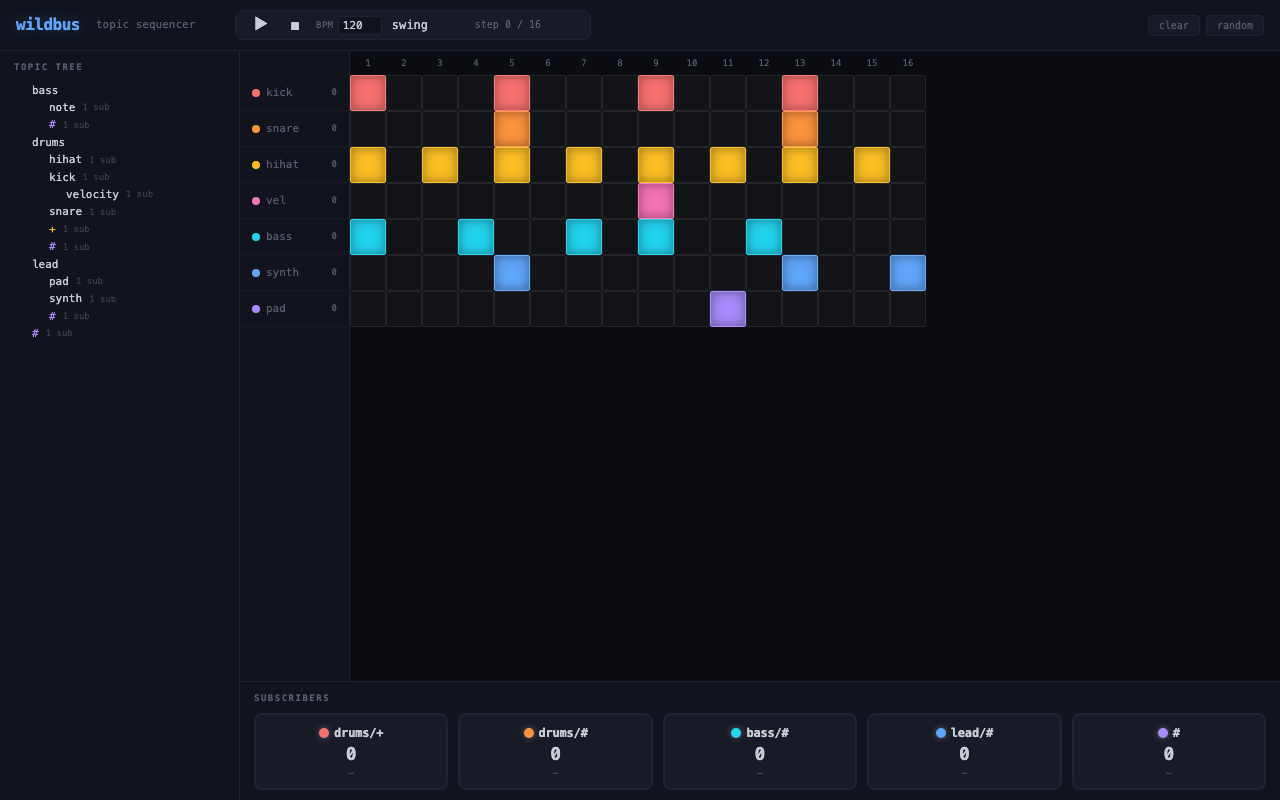
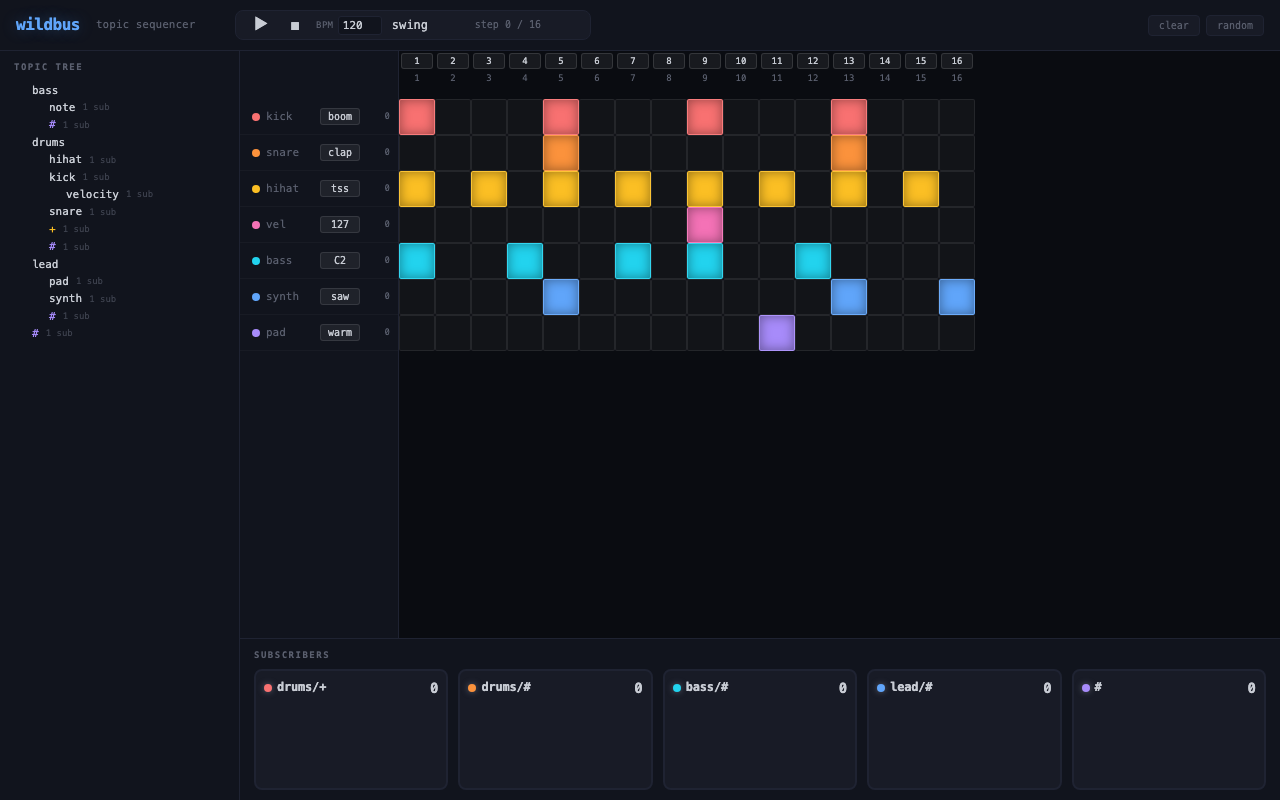
Rebuild GitHub Pages demo and update screenshot

diff --git a/docs/assets/index-DFrfRsHN.js b/docs/assets/index-DFrfRsHN.js
@@ -1,0 +1,21 @@
+var V=Object.defineProperty;var Z=(t,e,l)=>e in t?V(t,e,{enumerable:!0,configurable:!0,writable:!0,value:l}):t[e]=l;var b=(t,e,l)=>Z(t,typeof e!="symbol"?e+"":e,l);(function(){const e=document.createElement("link").relList;if(e&&e.supports&&e.supports("modulepreload"))return;for(const a of document.querySelectorAll('link[rel="modulepreload"]'))s(a);new MutationObserver(a=>{for(const r of a)if(r.type==="childList")for(const o of r.addedNodes)o.tagName==="LINK"&&o.rel==="modulepreload"&&s(o)}).observe(document,{childList:!0,subtree:!0});function l(a){const r={};return a.integrity&&(r.integrity=a.integrity),a.referrerPolicy&&(r.referrerPolicy=a.referrerPolicy),a.crossOrigin==="use-credentials"?r.credentials="include":a.crossOrigin==="anonymous"?r.credentials="omit":r.credentials="same-origin",r}function s(a){if(a.ep)return;a.ep=!0;const r=l(a);fetch(a.href,r)}})();function m(){return{children:new Map,plus:null,hash:null,listeners:new Set}}const S=/\//;class J{constructor(){b(this,"root",m())}add(e,l){this.ensure(e).listeners.add(l)}remove(e,l){const s=this.find(e);return s?s.listeners.delete(l):!1}removeListener(e){const l=[this.root];for(;l.length;){const s=l.pop();s.listeners.delete(e),l.push(...s.children.values()),s.plus&&l.push(s.plus),s.hash&&l.push(s.hash)}}collect(e){const l=e.split(S),s=new Set;return this.collectRecursive(this.root,l,0,s),s}get size(){let e=0;const l=[this.root];for(;l.length;){const s=l.pop();e+=s.listeners.size,l.push(...s.children.values()),s.plus&&l.push(s.plus),s.hash&&l.push(s.hash)}return e}clear(){this.root=m()}ensure(e){const l=e.split(S);let s=this.root;for(const a of l)s=this.ensureChild(s,a);return s}ensureChild(e,l){if(l==="+")return e.plus||(e.plus=m()),e.plus;if(l==="#")return e.hash||(e.hash=m()),e.hash;let s=e.children.get(l);return s||(s=m(),e.children.set(l,s)),s}find(e){const l=e.split(S);let s=this.root;for(const a of l)if(s=this.findChild(s,a),!s)return null;return s}findChild(e,l){return l==="+"?e.plus??void 0:l==="#"?e.hash??void 0:e.children.get(l)}collectRecursive(e,l,s,a){if(s>=l.length){for(const n of e.listeners)a.add(n);if(e.hash)for(const n of e.hash.listeners)a.add(n);return}const r=l[s],o=e.children.get(r);if(o&&this.collectRecursive(o,l,s+1,a),e.plus&&this.collectRecursive(e.plus,l,s+1,a),e.hash){for(const n of e.hash.listeners)a.add(n);this.collectRecursive(e.hash,l,s+1,a)}}}class Q{constructor(){b(this,"trie",new J);b(this,"_onError",null)}subscribe(e,l){const s=l;this.trie.add(e,s);let a=!1;return()=>{a||(a=!0,this.trie.remove(e,s))}}publish(e,l){const s=this.trie.collect(e);for(const a of s)try{a(l,e)}catch(r){this._onError?this._onError(r,e,a):console.error(`[wildbus] unhandled error in listener for "${e}":`,r)}}onError(e){this._onError=e}unsubscribe(e,l){return this.trie.remove(e,l)}removeListener(e){this.trie.removeListener(e)}get listenerCount(){return this.trie.size}clear(){this.trie.clear()}}function X(t){const e={segment:"root",wildcard:null,subscriberCount:0,children:new Map};for(const l of t){const s=l.split("/");let a=e;for(const r of s){let o=a.children.get(r);o||(o={segment:r,wildcard:r==="+"?"+":r==="#"?"#":null,subscriberCount:0,children:new Map},a.children.set(r,o)),a=o}a.subscriberCount++}return e}function Y(t,e,l){t.innerHTML="",O(t,e,0,"root",l)}function O(t,e,l,s,a){const r=(a==null?void 0:a.get(s))??0;if(l>0){const n=document.createElement("div");n.className="tree-node",n.dataset.path=s;const i=document.createElement("div");i.className="tree-label";const K="  ".repeat(l-1);let $="segment",U=e.segment;if(e.wildcard==="+"?$="segment wildcard-plus":e.wildcard==="#"&&($="segment wildcard-hash"),i.innerHTML=`<span style="color:var(--text-dim)">${K}</span><span class="${$}">${U}</span>`,e.subscriberCount>0){const u=document.createElement("span");u.className="sub-count",u.textContent=`${e.subscriberCount} sub`,i.appendChild(u)}if(r>0){const u=document.createElement("span");u.className="hit-count",u.textContent=String(r),i.appendChild(u)}n.appendChild(i),t.appendChild(n),t=n}const o=[...e.children.values()].sort((n,i)=>n.wildcard==="#"?1:i.wildcard==="#"?-1:n.wildcard==="+"?1:i.wildcard==="+"?-1:n.segment.localeCompare(i.segment));for(const n of o)O(t,n,l+1,s?`${s}/${n.segment}`:n.segment,a)}const h=16,T=8,c=[{topic:"drums/kick",label:"kick",color:"var(--red)",steps:[],payload:"boom"},{topic:"drums/snare",label:"snare",color:"var(--orange)",steps:[],payload:"clap"},{topic:"drums/hihat",label:"hihat",color:"var(--yellow)",steps:[],payload:"tss"},{topic:"drums/kick/velocity",label:"vel",color:"var(--pink)",steps:[],payload:"127"},{topic:"bass/note",label:"bass",color:"var(--cyan)",steps:[],payload:"C2"},{topic:"lead/synth",label:"synth",color:"var(--accent)",steps:[],payload:"saw"},{topic:"lead/pad",label:"pad",color:"var(--purple)",steps:[],payload:"warm"}];for(const t of c)t.steps=new Array(h).fill(!1);const y=[{topic:"drums/+",color:"var(--red)"},{topic:"drums/#",color:"var(--orange)"},{topic:"bass/#",color:"var(--cyan)"},{topic:"lead/#",color:"var(--accent)"},{topic:"#",color:"var(--purple)"}],_=new Q,w=new Set;let p=0,d=!1,f=null,k=120,B=0;const j=new Array(c.length).fill(0),q=new Array(y.length).fill(0),N=new Map,x=y.map(()=>[]),I=new Array(h).fill("").map((t,e)=>String(e+1)),ee=document.getElementById("tree-container"),P=document.getElementById("row-labels"),R=document.getElementById("step-numbers"),L=document.getElementById("grid"),te=document.getElementById("subscriber-list"),v=document.getElementById("btn-play"),se=document.getElementById("btn-stop"),le=document.getElementById("btn-clear"),ae=document.getElementById("btn-random"),C=document.getElementById("bpm-input"),G=document.getElementById("step-indicator");function re(){P.innerHTML=c.map((t,e)=>`<div class="row-label row-${e}" data-row="${e}">
+      <span class="dot" style="background:${t.color}"></span>
+      <span class="row-label-text">${t.label}</span>
+      <input class="row-payload" id="row-payload-${e}" value="${t.payload.replace(/"/g,"&quot;")}" title="payload" spellcheck="false" />
+      <span class="row-count" id="row-count-${e}">0</span>
+    </div>`).join(""),P.querySelectorAll(".row-payload").forEach(t=>{t.addEventListener("input",()=>{const e=Number(t.dataset.row);c[e].payload=t.value}),t.addEventListener("click",e=>e.stopPropagation())})}function ne(){R.innerHTML=new Array(h).fill(0).map((t,e)=>`<div class="step-col" data-step="${e}">
+      <input class="col-payload" id="col-payload-${e}" value="${I[e]}" title="column payload" spellcheck="false" />
+      <div class="step-num">${e+1}</div>
+    </div>`).join(""),R.querySelectorAll(".col-payload").forEach(t=>{t.addEventListener("input",()=>{const e=Number(t.dataset.step);I[e]=t.value}),t.addEventListener("click",e=>e.stopPropagation())})}function E(){L.innerHTML=c.map((t,e)=>`<div class="grid-row row-${e}" data-row="${e}">
+      ${t.steps.map((l,s)=>`<div class="grid-cell${l?" on":""}" data-row="${e}" data-step="${s}"></div>`).join("")}
+    </div>`).join("")}function oe(){te.innerHTML=y.map((t,e)=>`<div class="sub-chip sub-${e}" data-topic="${t.topic.replace(/"/g,"&quot;")}">
+      <div class="chip-dot-row">
+        <span class="dot" style="background:${t.color}"></span>
+        <span class="chip-topic">${t.topic}</span>
+        <span class="chip-count" id="sub-count-${e}">0</span>
+      </div>
+      <div class="waterfall" id="waterfall-${e}"></div>
+    </div>`).join("")}function ce(t){const e=document.getElementById(`waterfall-${t}`);if(!e)return;const l=x[t];e.innerHTML=l.slice(0,T).map((s,a)=>`<div class="wf-entry${a===0?" wf-fresh":""}" style="opacity:${1-a*.1}">
+        <span class="wf-src">${s.src}</span>
+        <span class="wf-payload">${s.payload}</span>
+      </div>`).join("")}function ie(){w.clear();for(const t of c)w.add(t.topic);for(const t of y)w.add(t.topic)}function W(){const t=X(w);Y(ee,t,N)}function de(t){const e=t.split("/");for(let l=0;l<=e.length;l++){const s=e.slice(0,l).join("/")||"root";N.set(s,(N.get(s)??0)+1)}W();for(let l=0;l<=e.length;l++){const s=e.slice(0,l).join("/")||"root",a=document.querySelector(`.tree-node[data-path="${CSS.escape(s)}"]`);a&&(a.classList.add("active"),setTimeout(()=>a.classList.remove("active"),600))}}function ue(t,e,l,s){q[s]++;const a=x[s];a.unshift({src:e.split("/").pop()||e,payload:l,time:Date.now()}),a.length>T*2&&(a.length=T*2);const r=document.getElementById(`sub-count-${s}`);r&&(r.textContent=String(q[s])),ce(s);const o=document.querySelector(`.sub-chip[data-topic="${CSS.escape(t)}"]`);o&&(o.classList.add("flash"),setTimeout(()=>o.classList.remove("flash"),250))}function fe(t){const e=document.getElementById(`row-count-${t}`);e&&(e.textContent=String(j[t]))}function pe(){G.textContent=`msgs ${B} · step ${p+1} / ${h}`}function he(t){const e=document.querySelector(`.row-label[data-row="${t}"]`);e&&(e.classList.add("firing"),setTimeout(()=>e.classList.remove("firing"),100))}function z(t,e){L.querySelectorAll(".grid-cell.playhead").forEach(a=>a.classList.remove("playhead")),document.querySelectorAll(".step-num.active").forEach(a=>a.classList.remove("active")),L.querySelectorAll(`.grid-cell[data-step="${t}"]`).forEach(a=>{a.classList.add("playhead"),e&&(a.classList.add("playhead-advance"),setTimeout(()=>a.classList.remove("playhead-advance"),100))});const s=document.querySelector(`.step-num[data-step="${t}"]`);s&&s.classList.add("active")}let A=0;function M(t){const e=performance.now(),l=A>0;A=e,p=t,z(t,l);for(let s=0;s<c.length;s++){const a=c[s];if(a.steps[t]){B++,j[s]++;const r=`${a.payload} ${I[t]}`;_.publish(a.topic,r),de(a.topic),he(s),fe(s)}}pe(),p=(t+1)%h}function D(){return 6e4/k/4}function F(){d||(d=!0,v.classList.add("playing"),v.textContent="❚❚",A=0,M(p),f=setInterval(()=>M(p),D()))}function g(){d&&(d=!1,v.classList.remove("playing"),v.textContent="▶",f&&(clearInterval(f),f=null),z(-1,!1),G.textContent=`msgs ${B} · stopped`,document.querySelectorAll(".grid-cell.playhead").forEach(t=>t.classList.remove("playhead")),document.querySelectorAll(".step-num.active").forEach(t=>t.classList.remove("active")))}function me(){d&&(f&&clearInterval(f),f=setInterval(()=>M(p),D()))}function ve(){for(const t of c)t.steps.fill(!1);E()}function ye(){for(const e of c)for(let l=0;l<h;l++)e.steps[l]=Math.random()<.3;E()}v.addEventListener("click",()=>{d?g():F()});se.addEventListener("click",g);le.addEventListener("click",()=>{d&&g(),ve()});ae.addEventListener("click",()=>{d&&g(),ye()});C.addEventListener("change",()=>{k=Math.max(40,Math.min(300,Number(C.value)||120)),C.value=String(k),me()});document.addEventListener("keydown",t=>{t.code==="Space"&&(t.preventDefault(),d?g():F())});y.forEach((t,e)=>{_.subscribe(t.topic,(l,s)=>{ue(t.topic,s,String(l),e)})});L.addEventListener("click",t=>{const e=t.target.closest(".grid-cell");if(!e)return;const l=Number(e.dataset.row),s=Number(e.dataset.step);isNaN(l)||isNaN(s)||(c[l].steps[s]=!c[l].steps[s],e.classList.toggle("on"))});ie();re();ne();E();oe();W();const H=[[!0,!1,!1,!1,!0,!1,!1,!1,!0,!1,!1,!1,!0,!1,!1,!1],[!1,!1,!1,!1,!0,!1,!1,!1,!1,!1,!1,!1,!0,!1,!1,!1],[!0,!1,!0,!1,!0,!1,!0,!1,!0,!1,!0,!1,!0,!1,!0,!1],[!1,!1,!1,!1,!1,!1,!1,!1,!0,!1,!1,!1,!1,!1,!1,!1],[!0,!1,!1,!0,!1,!1,!0,!1,!0,!1,!1,!0,!1,!1,!1,!1],[!1,!1,!1,!1,!0,!1,!1,!1,!1,!1,!1,!1,!0,!1,!1,!0],[!1,!1,!1,!1,!1,!1,!1,!1,!1,!1,!0,!1,!1,!1,!1,!1]];for(let t=0;t<H.length&&t<c.length;t++)c[t].steps=[...H[t]];E();

diff --git a/docs/index.html b/docs/index.html
@@ -4,8 +4,8 @@
   <meta charset="UTF-8" />
   <meta name="viewport" content="width=device-width, initial-scale=1.0" />
   <title>wildbus — sequencer</title>
-  <script type="module" crossorigin src="/wildbus/assets/index-BS4ziKsq.js"></script>
-  <link rel="stylesheet" crossorigin href="/wildbus/assets/index-VwK0qMA4.css">
+  <script type="module" crossorigin src="/wildbus/assets/index-DFrfRsHN.js"></script>
+  <link rel="stylesheet" crossorigin href="/wildbus/assets/index-xNPtYo_b.css">
 </head>
 <body>
   <div id="app">

diff --git a/docs/assets/index-xNPtYo_b.css b/docs/assets/index-xNPtYo_b.css
@@ -1,0 +1,1 @@
+*,*:before,*:after{box-sizing:border-box;margin:0;padding:0}:root{--bg: #0a0c11;--surface: #11141d;--surface2: #181b26;--border: #1f2332;--text: #c8ccd4;--text-dim: #5a5f6e;--accent: #60a5fa;--accent-glow: rgba(96, 165, 250, .3);--green: #34d399;--yellow: #fbbf24;--red: #f87171;--purple: #a78bfa;--cyan: #22d3ee;--orange: #fb923c;--pink: #f472b6;--pink-glow: rgba(244, 114, 182, .3);--radius: 4px;--font: "SF Mono", "Cascadia Code", "Fira Code", "JetBrains Mono", monospace}body{background:var(--bg);color:var(--text);font-family:var(--font);font-size:12px;line-height:1.4;height:100vh;overflow:hidden;user-select:none;-webkit-user-select:none}#app{display:flex;flex-direction:column;height:100vh}header{display:flex;align-items:center;gap:16px;padding:10px 16px;border-bottom:1px solid var(--border);background:var(--surface)}header h1{font-size:16px;font-weight:700;color:var(--accent);text-shadow:0 0 16px var(--accent-glow);letter-spacing:-.5px}.subtitle{color:var(--text-dim);font-size:11px}.transport{display:flex;align-items:center;gap:10px;margin-left:24px;padding:4px 12px;background:var(--surface2);border-radius:8px;border:1px solid var(--border)}.play-btn,.stop-btn{background:none;border:none;color:var(--text);font-size:16px;cursor:pointer;padding:2px 6px;border-radius:3px;transition:color .15s,background .15s;line-height:1}.play-btn:hover,.stop-btn:hover{background:var(--border)}.play-btn.playing{color:var(--green);text-shadow:0 0 8px rgba(52,211,153,.5)}.bpm-group{display:flex;align-items:center;gap:4px}.bpm-group label{color:var(--text-dim);font-size:9px;text-transform:uppercase;letter-spacing:.5px}.bpm-group input{background:var(--surface);border:1px solid var(--border);border-radius:3px;padding:2px 4px;color:var(--text);font-family:var(--font);font-size:11px;width:44px;text-align:center;outline:none}.bpm-group input:focus{border-color:var(--accent)}.step-indicator{color:var(--text-dim);font-size:10px;min-width:140px;text-align:center;font-variant-numeric:tabular-nums}.header-actions{margin-left:auto;display:flex;gap:6px}.header-actions button{background:var(--surface2);color:var(--text-dim);border:1px solid var(--border);border-radius:var(--radius);padding:4px 10px;font-family:var(--font);font-size:10px;cursor:pointer;transition:color .2s,border-color .2s}.header-actions button:hover{color:var(--text);border-color:var(--accent)}main{display:flex;flex:1;overflow:hidden}#tree-panel{width:240px;min-width:200px;border-right:1px solid var(--border);background:var(--surface);display:flex;flex-direction:column;overflow:hidden}#tree-panel h2{padding:10px 14px 6px;font-size:9px;text-transform:uppercase;letter-spacing:1.5px;color:var(--text-dim)}#tree-container{flex:1;overflow-y:auto;padding:2px 0 8px 6px}.tree-node{padding-left:16px;border-left:1px solid transparent;transition:border-color .15s,background .15s}.tree-node.active{border-left-color:var(--accent);background:linear-gradient(90deg,var(--accent-glow) 0%,transparent 50%)}.tree-label{display:flex;align-items:center;gap:3px;padding:1px 6px;border-radius:2px;font-size:11px}.tree-label .segment{color:var(--text)}.tree-label .wildcard-plus{color:var(--yellow)}.tree-label .wildcard-hash{color:var(--purple)}.tree-label .sub-count{color:var(--text-dim);font-size:9px;margin-left:4px;opacity:.6}.tree-label .hit-count{margin-left:auto;background:var(--accent);color:var(--bg);font-size:9px;font-weight:700;padding:1px 5px;border-radius:8px;min-width:18px;text-align:center;font-variant-numeric:tabular-nums}#seq-panel{flex:1;display:flex;flex-direction:column;overflow:hidden}#sequencer{flex:1;display:flex;overflow:hidden}.row-labels{display:flex;flex-direction:column;padding-top:48px;min-width:110px;border-right:1px solid var(--border);background:var(--surface)}.row-label{display:flex;align-items:center;height:36px;padding:0 8px 0 12px;font-size:11px;color:var(--text-dim);border-bottom:1px solid rgba(255,255,255,.03);gap:6px;transition:color .15s}.row-label .dot{width:8px;height:8px;border-radius:50%;flex-shrink:0}.row-label.firing{color:var(--text)}.row-label-text{flex-shrink:0;display:inline-block;width:48px}.row-payload{width:40px;background:#ffffff0f;border:1px solid rgba(255,255,255,.1);border-radius:3px;padding:2px 4px;color:var(--text);font-family:var(--font);font-size:10px;text-align:center;outline:none;transition:border-color .2s,box-shadow .2s}.row-payload:focus{border-color:var(--accent);box-shadow:0 0 6px var(--accent-glow)}.row-count{margin-left:auto;font-size:9px;color:var(--text-dim);font-variant-numeric:tabular-nums;min-width:24px;text-align:right}.grid-scroll{flex:1;overflow-x:auto;overflow-y:hidden}.step-numbers{display:flex;height:48px}.step-col{width:36px;display:flex;flex-direction:column;align-items:center;flex-shrink:0}.col-payload{width:32px;background:#ffffff0f;border:1px solid rgba(255,255,255,.12);border-radius:3px;padding:2px;color:var(--text);font-family:var(--font);font-size:9px;text-align:center;outline:none;margin-top:2px;transition:border-color .2s,box-shadow .2s}.col-payload:focus{border-color:var(--accent);box-shadow:0 0 6px var(--accent-glow)}.step-num{width:36px;text-align:center;font-size:9px;color:var(--text-dim);flex-shrink:0;line-height:18px}.step-num.active{color:var(--accent);font-weight:700}.grid{display:flex;flex-direction:column}.grid-row{display:flex;height:36px}.grid-cell{width:36px;height:36px;background:#ffffff08;border:1px solid rgba(255,255,255,.08);border-radius:2px;cursor:pointer;transition:background .08s,box-shadow .08s;flex-shrink:0}.grid-cell:hover{border-color:#ffffff40;background:#ffffff14}.grid-cell.on{box-shadow:inset 0 0 12px #0006}.grid-cell.playing{border-color:#ffffff1f}.row-0 .grid-cell.on{background:var(--red)}.row-1 .grid-cell.on{background:var(--orange)}.row-2 .grid-cell.on{background:var(--yellow)}.row-3 .grid-cell.on{background:var(--pink)}.row-4 .grid-cell.on{background:var(--cyan)}.row-5 .grid-cell.on{background:var(--accent)}.row-6 .grid-cell.on{background:var(--purple)}.grid-cell.playhead{border-left-color:#ffffff40;border-right-color:#ffffff40;background:#ffffff0a!important}.grid-cell.playhead-advance{animation:playhead-pulse .1s ease-out}@keyframes playhead-pulse{0%{background:#ffffff1f!important}to{background:#ffffff0a!important}}#subscriber-strip{border-top:1px solid var(--border);background:var(--surface);padding:10px 14px;min-height:160px}#subscriber-strip h2{font-size:9px;text-transform:uppercase;letter-spacing:1.5px;color:var(--text-dim);margin-bottom:8px}#subscriber-list{display:flex;gap:10px}.sub-chip{flex:1;display:flex;flex-direction:column;gap:4px;background:var(--surface2);border:2px solid var(--border);border-radius:8px;padding:8px;font-size:11px;color:var(--text-dim);transition:border-color .1s,box-shadow .1s,transform .1s,background .1s;min-width:0;overflow:hidden}.sub-chip .chip-dot-row{display:flex;align-items:center;gap:5px}.sub-chip .dot{width:8px;height:8px;border-radius:50%;flex-shrink:0;box-shadow:0 0 6px currentColor}.sub-chip .chip-topic{font-weight:600;font-size:12px;color:var(--text);letter-spacing:-.2px}.sub-chip .chip-count{font-variant-numeric:tabular-nums;font-weight:600;font-size:14px;color:var(--text);line-height:1;transition:color .1s;margin-left:auto}.sub-chip.flash{transform:scale(1.02);box-shadow:0 0 16px var(--accent-glow);transition:border-color 0s,box-shadow 0s,transform 0s,background 0s}.sub-chip.flash .chip-count{color:var(--accent)}.waterfall{flex:1;display:flex;flex-direction:column;gap:1px;overflow:hidden;min-height:80px}.wf-entry{display:flex;gap:6px;font-size:9px;padding:1px 4px;border-radius:2px;transition:opacity .3s;white-space:nowrap;overflow:hidden}.wf-entry.wf-fresh{background:#60a5fa14}.wf-src{color:var(--text-dim);flex-shrink:0;min-width:32px;text-align:right}.wf-payload{color:var(--green);overflow:hidden;text-overflow:ellipsis}